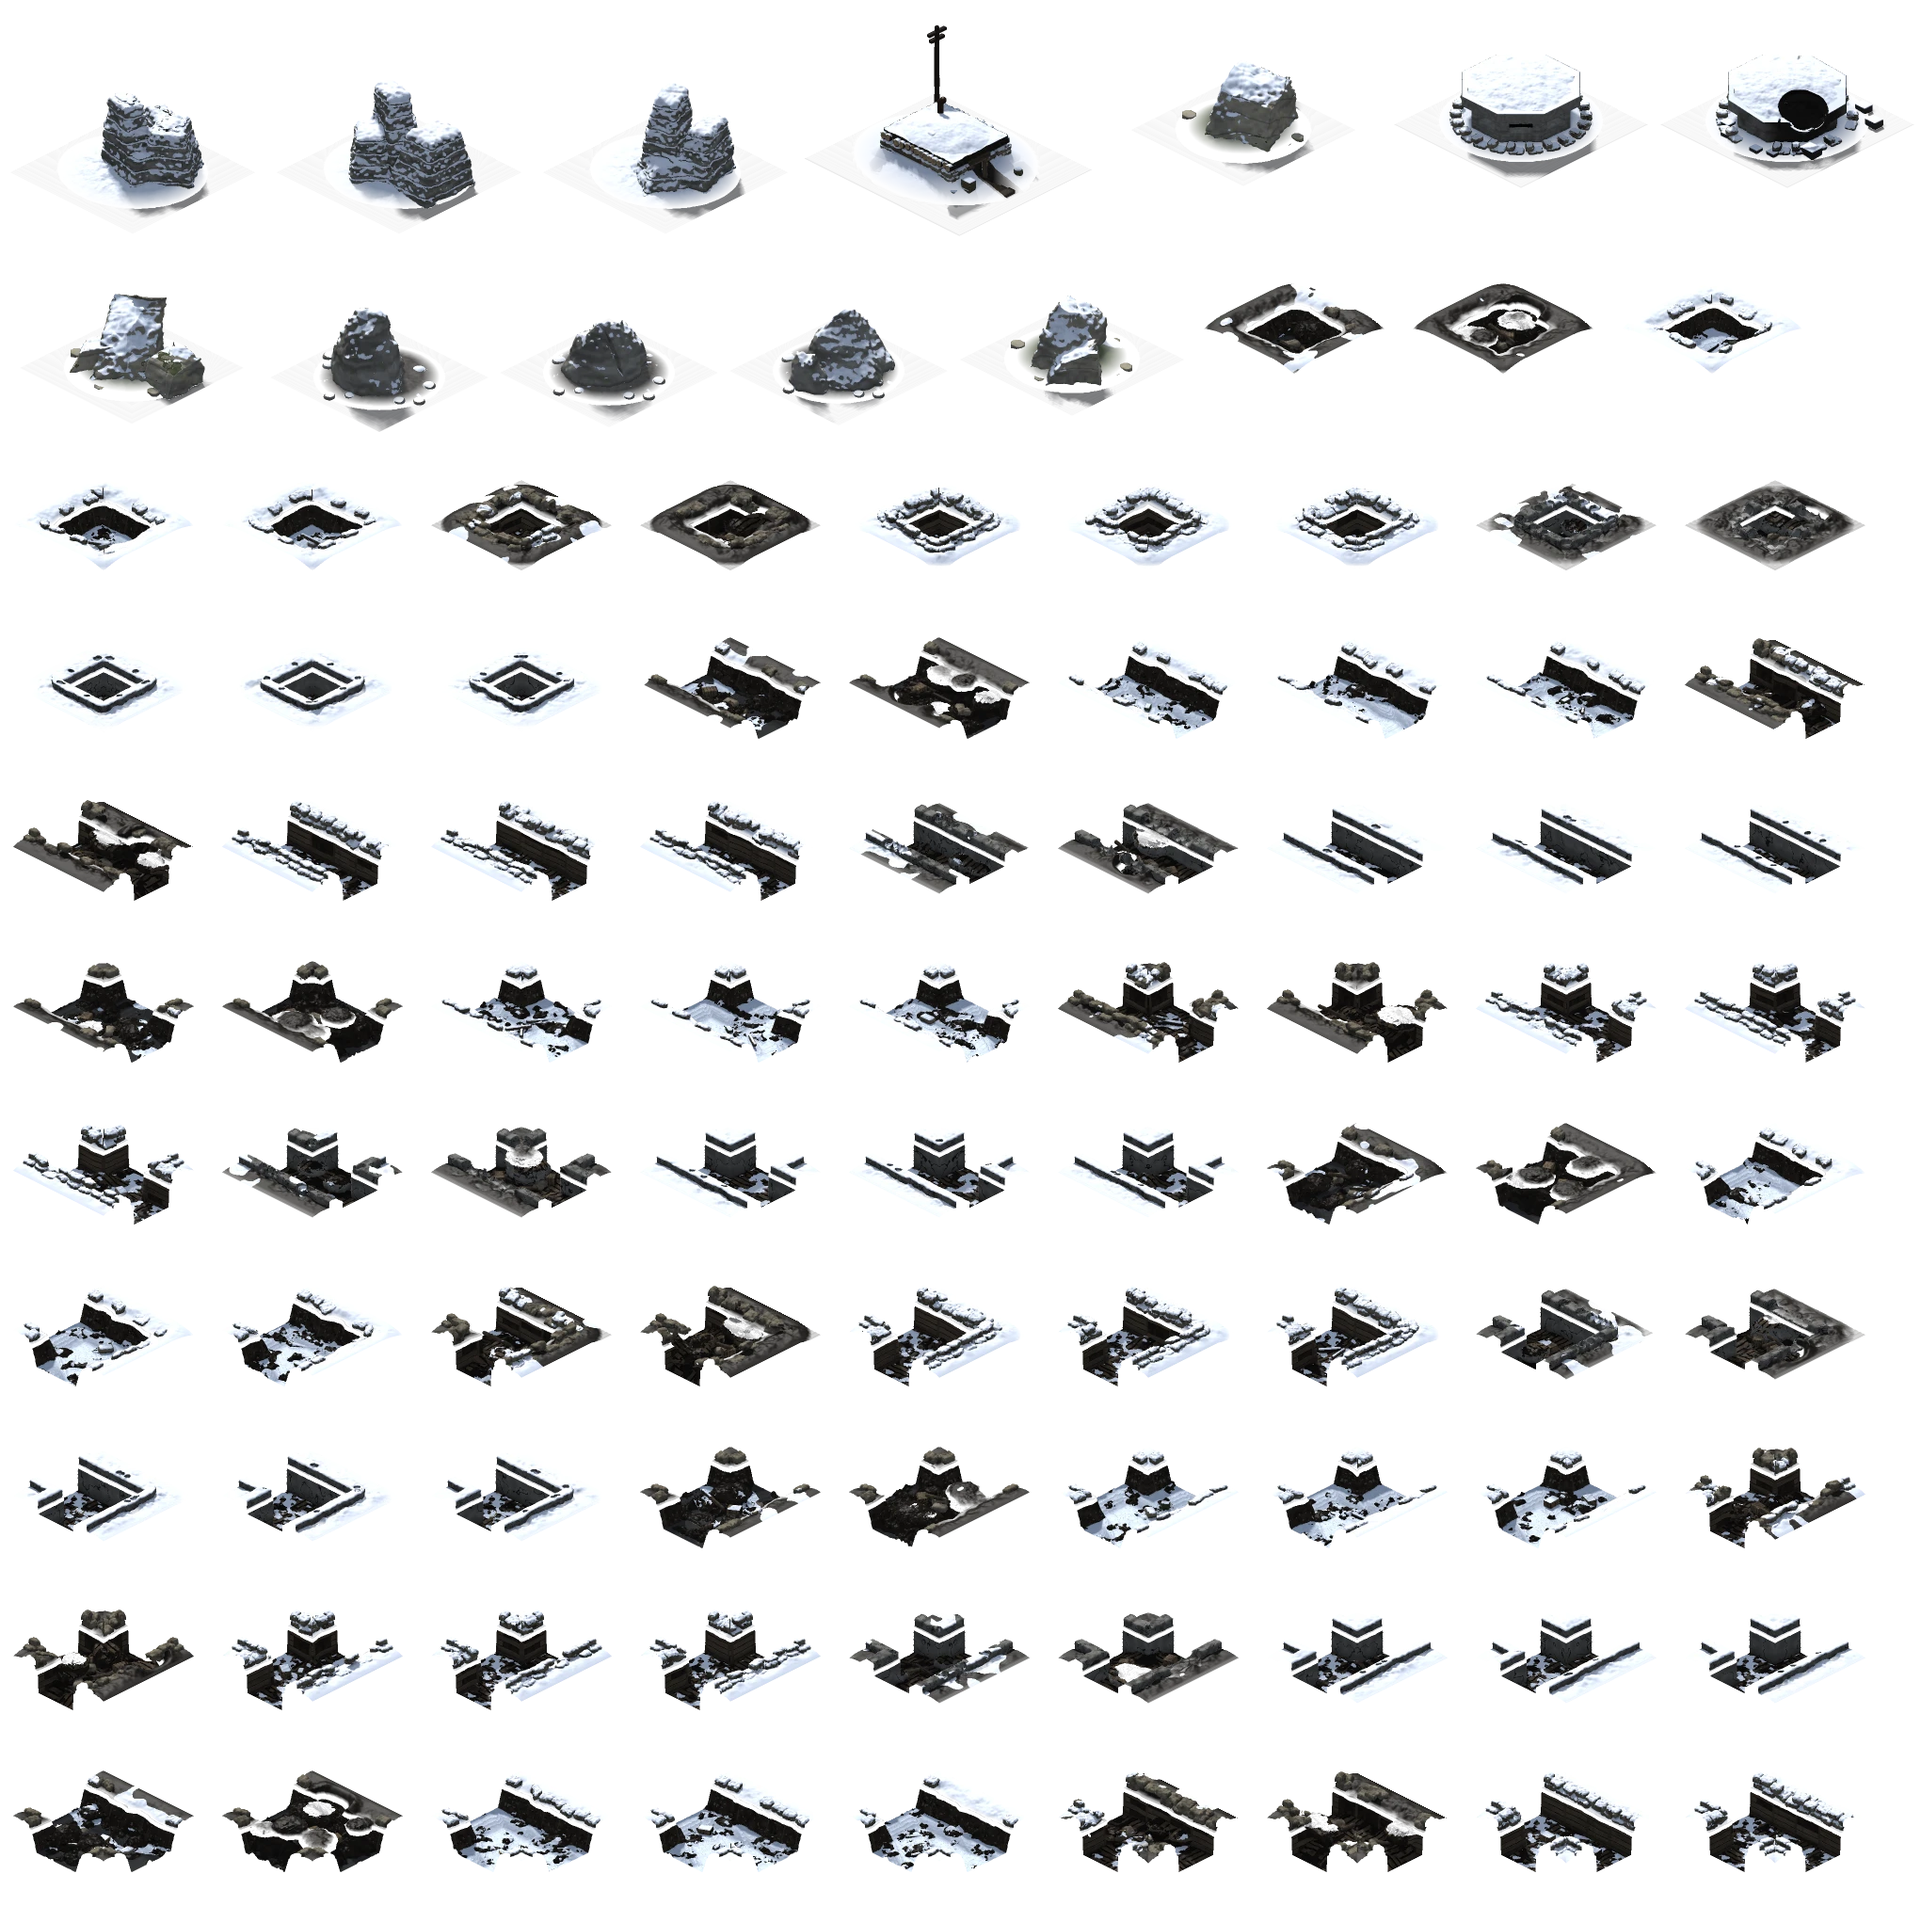
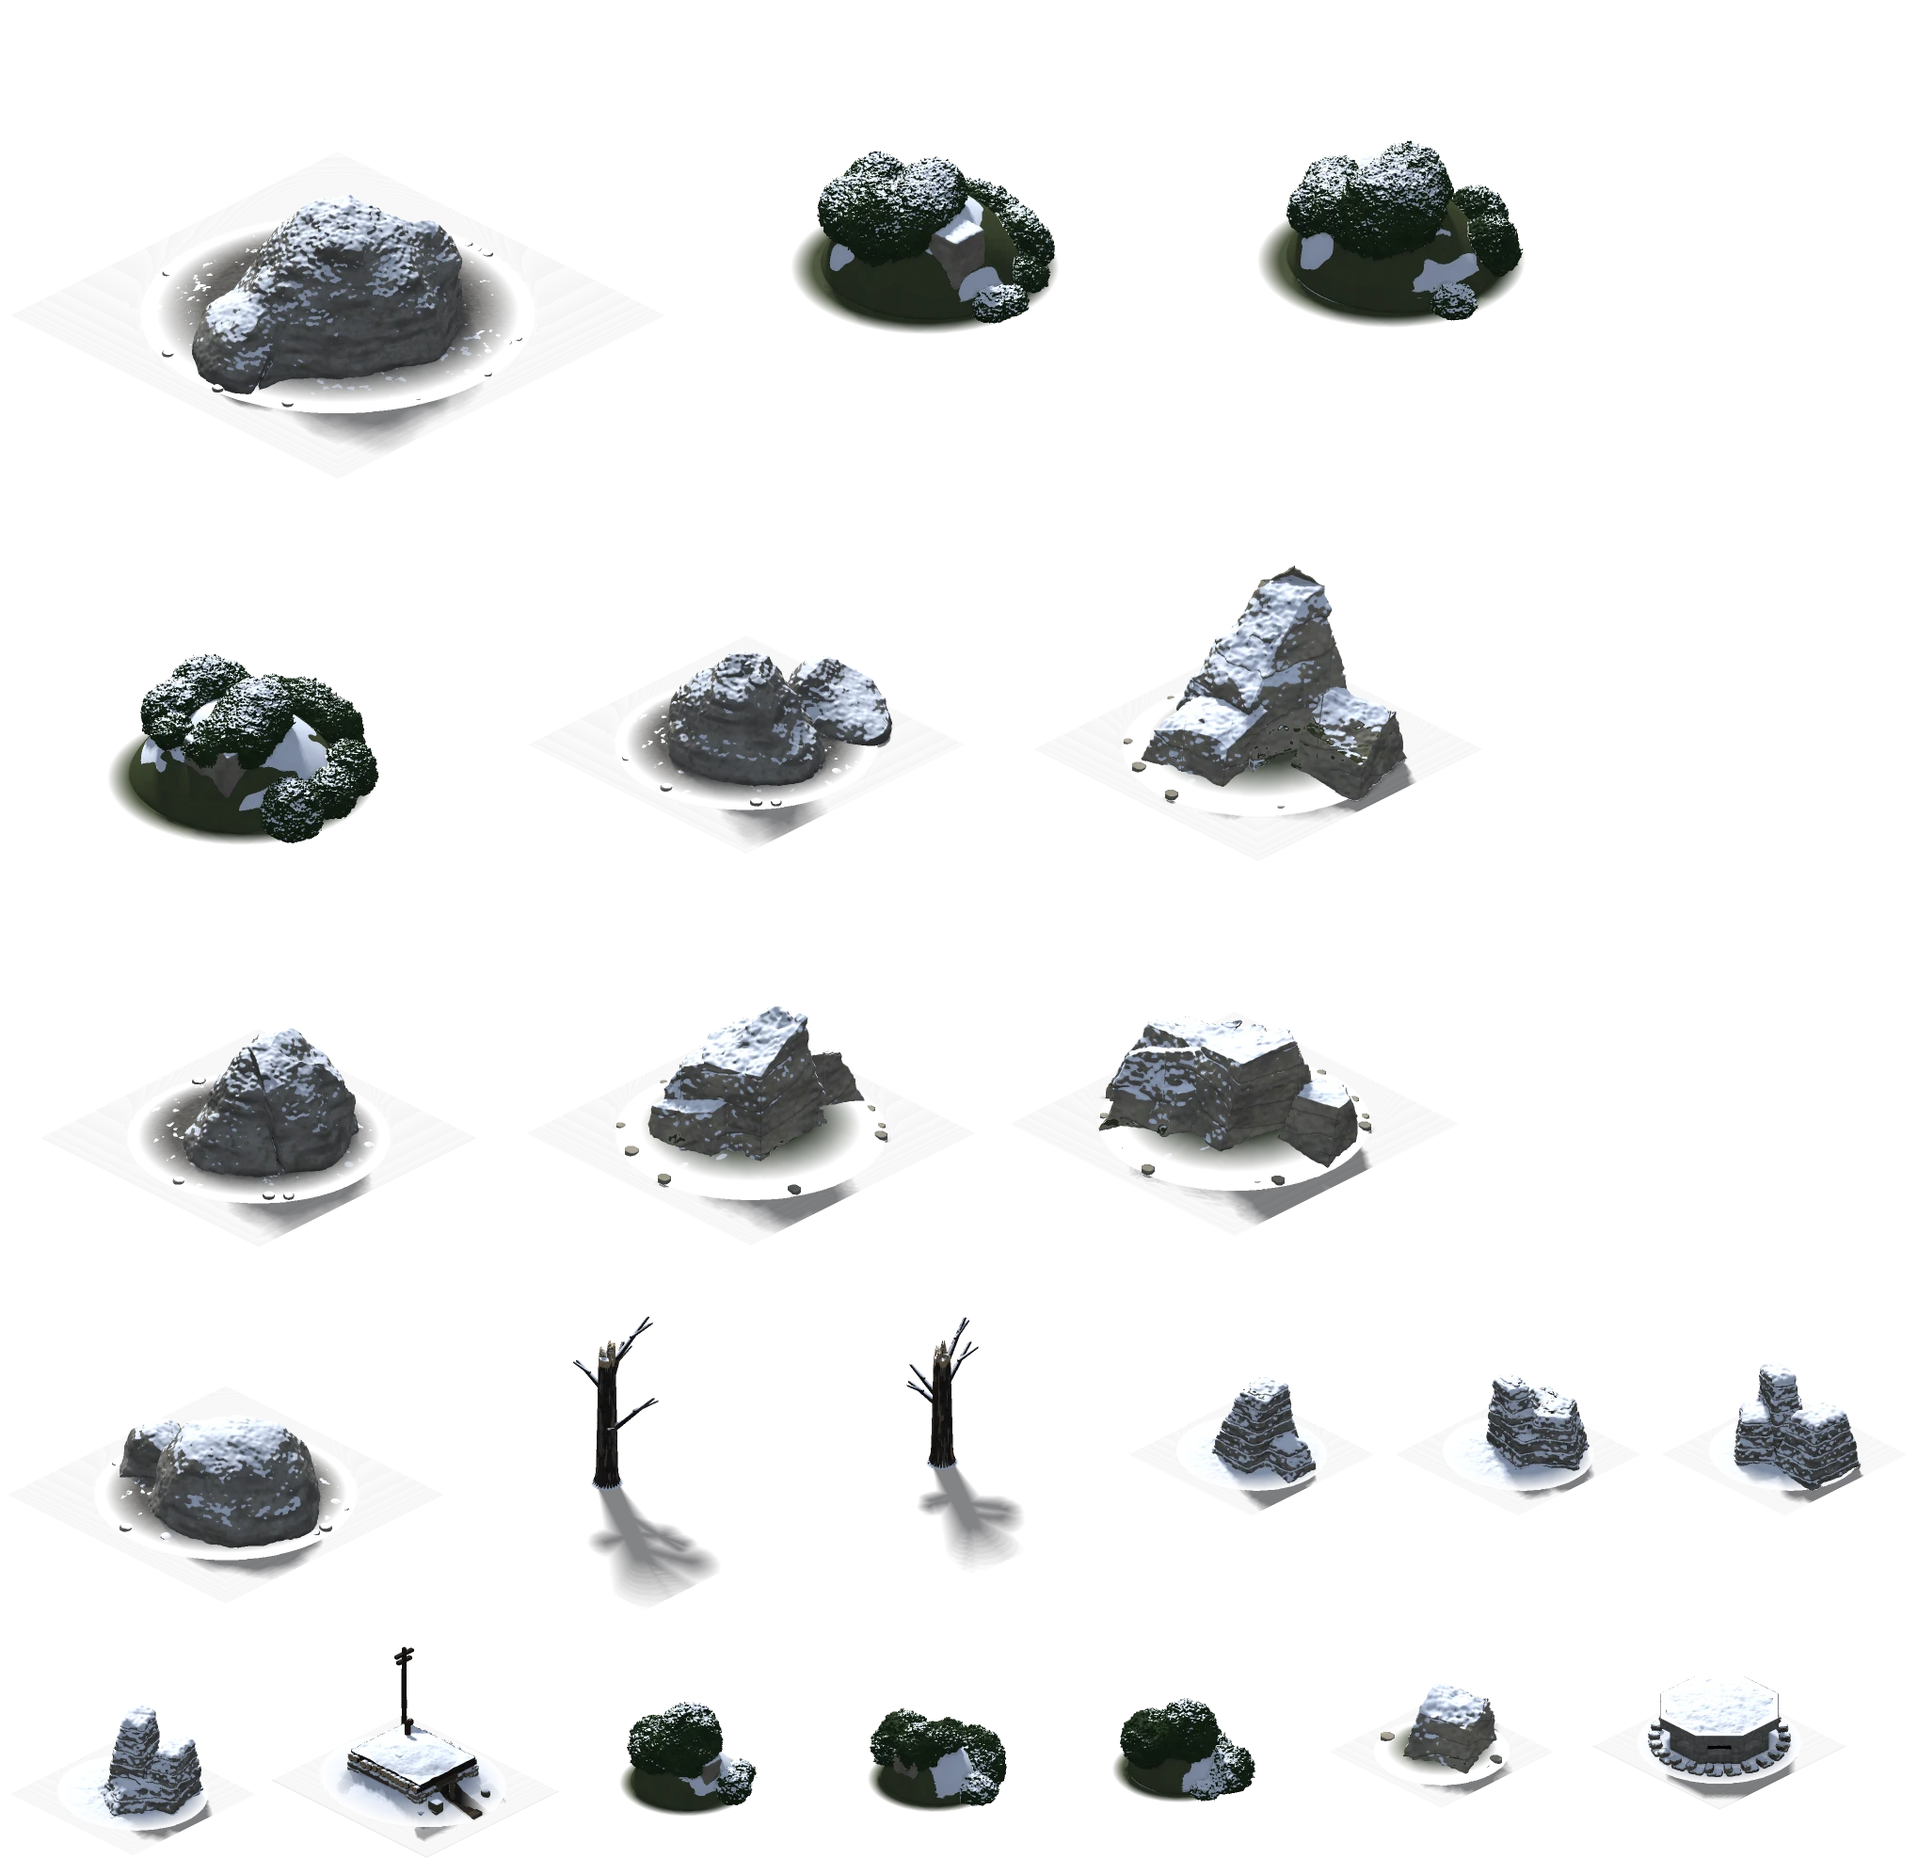
Level 2: impassable grassy knolls of dwarf pine, passable scree
Two new pre-rendered kinds of ground. Knolls: steep grassy hummocks thick with dwarf mountain pine, a rock
breaking through here and there (1, 2 and 3 tiles; three variants, bare and snowy) - impassable like rock;
some of the valley's ridges and boulder clusters and stretches of the wall's foot are knolls now. Scree:
loose stones and slabs lying on the open ground (four variants), in patches and at the rocks' feet -
passable, but men cross it at 82% speed. Saves keep both.

Claude-Session: https://claude.ai/code/session_01QRLYjet5i3xPK5hPmw42NL

diff --git a/src/render.js b/src/render.js
@@ -815,6 +815,12 @@ export class Renderer {
       const p = iso(t.x + 0.3 + h * 0.4, t.y + 0.3 + t.shade * 0.4);
       this.drawProp(g, `debris${Math.floor(h * 97) % 3}${snow}`, p.x, p.y);
     }
+    // scree: loose stones lying on the open ground
+    for (const t of map.tiles) {
+      if (t.ground !== 3 || t.off || t.trench || !this.inClip(t.x, t.y, 1)) continue;
+      const h = hash(t.x * 4.1, t.y * 2.7), p = iso(t.x + 0.5 + (h - 0.5) * 0.3, t.y + 0.5 + (t.shade - 0.5) * 0.3);
+      this.drawProp(g, `scree${Math.floor(h * 4) % 4}${snow}`, p.x, p.y, h > 0.5);
+    }
     // trench tiles by connectivity, back to front
     const trenches = map.tiles.filter((t) => t.trench && this.inClip(t.x, t.y, 2)).sort((a, b) => a.x + a.y - (b.x + b.y) || a.x - b.x);
     for (const t of trenches) {
@@ -1311,9 +1317,9 @@ export class Renderer {
     const n = map.tiles.reduce((c, t) => c + (t.rock ? 1 : 0), 0);
     if (this._rocks && this._rocks.map === map && this._rocks.n === n) return this._rocks.list;
     const W = map.w, used = new Uint8Array(W * map.h), list = [];
-    const free = (x, y) => x < W && y < map.h && map.tiles[y * W + x].rock && !map.tiles[y * W + x].hidden && !used[y * W + x];
-    const block = (x, y, z) => { for (let j = 0; j < z; j++) for (let i = 0; i < z; i++) if (!free(x + i, y + j)) return false; return true; };
-    const take = (x, y, z) => { for (let j = 0; j < z; j++) for (let i = 0; i < z; i++) used[(y + j) * W + x + i] = 1; list.push({ x, y, size: z, v: Math.floor(hash(x * 1.3, y * 2.1) * 3) }); };
+    const free = (x, y, k) => x < W && y < map.h && map.tiles[y * W + x].rock && !map.tiles[y * W + x].hidden && !used[y * W + x] && (k === undefined || !!map.tiles[y * W + x].knoll === k);
+    const block = (x, y, z) => { const k = !!map.tiles[y * W + x].knoll; for (let j = 0; j < z; j++) for (let i = 0; i < z; i++) if (!free(x + i, y + j, k)) return false; return true; };
+    const take = (x, y, z) => { for (let j = 0; j < z; j++) for (let i = 0; i < z; i++) used[(y + j) * W + x + i] = 1; list.push({ x, y, size: z, v: Math.floor(hash(x * 1.3, y * 2.1) * 3), knoll: !!map.tiles[y * W + x].knoll }); };
     // the big ones first, at scattered places, then the middling ones, then whatever is left
     for (const [z, p] of [[3, 0.9], [2, 0.95]]) for (let y = 0; y < map.h; y++) for (let x = 0; x < W; x++) if (hash(x * 0.7 + z, y * 1.9) < p && block(x, y, z)) take(x, y, z);
     for (let y = 0; y < map.h; y++) for (let x = 0; x < W; x++) if (free(x, y)) take(x, y, 1);
@@ -1325,8 +1331,8 @@ export class Renderer {
   drawRock(ctx, r) {
     const h = hash(r.x * 3.7, r.y * 1.9), c = iso(r.x + r.size / 2 + (h - 0.5) * 0.15, r.y + r.size / 2 + (hash(r.y, r.x) - 0.5) * 0.15);
     const snow = (this.S ?? 1) > 0.7 ? '_s' : '';
-    // jagged crags and rounded boulders mixed, as they fall in the mountains
-    const kind = hash(r.x * 2.9 + 1.7, r.y * 5.3) < 0.42 ? 'round' : 'boulder';
+    // jagged crags and rounded boulders mixed, as they fall in the mountains; or a knoll of dwarf pine
+    const kind = r.knoll ? 'knoll' : hash(r.x * 2.9 + 1.7, r.y * 5.3) < 0.42 ? 'round' : 'boulder';
     if (this.drawFrame(ctx, this.propGroup(), `${kind}${r.size}_${r.v}${snow}`, c.x, c.y, 1.22 + h * 0.2, h > 0.5)) return;
     if (this.drawFrame(ctx, this.propGroup(), `boulder${r.size}_${r.v}${snow}`, c.x, c.y, 1.22 + h * 0.2, h > 0.5)) return;
     if (this.drawFrame(ctx, this.propGroup(), `rock${r.v}${snow}`, c.x, c.y, (1.4 + h * 0.35) * r.size, h > 0.5)) return;

diff --git a/src/campaign.js b/src/campaign.js
@@ -181,25 +181,39 @@ function buildValley(state) {
   }
   const hashRnd = (x, y) => { const h = Math.sin(x * 127.1 + y * 311.7) * 43758.5453; return h - Math.floor(h); };
   // a spur: a ridge of rock from (u0, v0) to (u1, v1), ragged, thickness r
-  const spur = (u0, v0, u1, v1, r) => {
+  const spur = (u0, v0, u1, v1, r, knoll = false) => {
     for (const t of map.tiles) {
       if (t.off) continue;
       const [u, v] = uv(t), du = u1 - u0, dv = v1 - v0, L = du * du + dv * dv;
       const k = Math.max(0, Math.min(1, ((u - u0) * du + (v - v0) * dv) / L));
       const d = Math.hypot(u - (u0 + du * k), v - (v0 + dv * k));
-      if (d <= r + (hashRnd(t.x, t.y) - 0.5) * 1.2) rock(t);
+      if (d <= r + (hashRnd(t.x, t.y) - 0.5) * 1.2) { rock(t); if (t.rock && knoll) t.knoll = 1; }
     }
   };
   const SPURS = [
-    [-18, 6, -6, 9, 1.1], [-17, -1, -7, 1, 1.1], [-15, -8, -5, -6, 1], // before the first nest
-    [1, -1, 10, 1, 1.1], [2, 5, 9, 8, 1], [4, -7, 11, -9, 1], // between the first and the second
-    [17, -2, 24, 0, 1.1], [18, 4, 25, 7, 1], [17, -9, 23, -11, 1], [16, 10, 22, 12, 0.9], // between the second and the third
+    // (a sixth value marks a grassy knoll of dwarf pine rather than rock: as impassable)
+    [-18, 6, -6, 9, 1.1, true], [-17, -1, -7, 1, 1.1], [-15, -8, -5, -6, 1], // before the first nest
+    [1, -1, 10, 1, 1.1], [2, 5, 9, 8, 1, true], [4, -7, 11, -9, 1], // between the first and the second
+    [17, -2, 24, 0, 1.1, true], [18, 4, 25, 7, 1], [17, -9, 23, -11, 1], [16, 10, 22, 12, 0.9, true], // between the second and the third
   ];
   for (const sp of SPURS) spur(...sp);
   for (let n = 0; n < 8; n++) { // lone boulders and small clusters in the open
     const u = -18 + rnd() * 48, v = -11 + rnd() * 22;
     if (POINTS.some(([pu, pv]) => Math.abs(u - pu) < 6 && Math.abs(v - pv) < 7)) continue;
-    spur(u, v, u + (rnd() - 0.5) * 2, v + (rnd() - 0.5) * 2, 0.4 + rnd() * 0.5);
+    spur(u, v, u + (rnd() - 0.5) * 2, v + (rnd() - 0.5) * 2, 0.4 + rnd() * 0.5, rnd() < 0.5);
+  }
+  // the valley wall's foot grown over with dwarf pine in places
+  for (const t of map.tiles) {
+    if (!t.rock || t.knoll) continue;
+    const [u, v] = uv(t);
+    if (v > -15 && v < 15 && Math.abs(v) >= 11 && Math.sin(u * 0.23 + (v > 0 ? 2.1 : 0.4)) > 0.45) t.knoll = 1;
+  }
+  // scree: loose stones lying on the open ground (passable, but slow), in patches and at the rocks' feet
+  for (const t of map.tiles) {
+    if (t.off || t.rock || t.trench || t.wire || t.ground === 2) continue;
+    const [u, v] = uv(t), near = [[1, 0], [-1, 0], [0, 1], [0, -1]].some(([dx, dy]) => { const n = tileAt(map, t.x + dx + 0.5, t.y + dy + 0.5); return n && n.rock && !n.knoll; });
+    const f = Math.sin(u * 0.41 + 1.7) * Math.cos(v * 0.53 - 0.6) + 0.5 * Math.sin((u - v) * 0.31);
+    if ((near && rnd() < 0.35) || f > 1.05 || rnd() < 0.025) { t.ground = 3; t.mud = 0; }
   }
   // great crags, three times the size of any in the valley, along the back of its rock wall like the foot of
   // the mountain: on the map's own (impassable) rock, each standing over the rock tiles beneath it

diff --git a/index.html b/index.html
@@ -12,16 +12,16 @@
       "./src/ai.js": "./src/ai.js?v=3dae52f0",
       "./src/atmosphere.js": "./src/atmosphere.js?v=1e92f7e8",
       "./src/audio.js": "./src/audio.js?v=bbae5c50",
-      "./src/campaign.js": "./src/campaign.js?v=dab6dfed",
+      "./src/campaign.js": "./src/campaign.js?v=28064dd5",
       "./src/config.js": "./src/config.js?v=ee084504",
-      "./src/game.js": "./src/game.js?v=fa26c686",
+      "./src/game.js": "./src/game.js?v=167e2aef",
       "./src/main.js": "./src/main.js?v=3ddce736",
       "./src/map.js": "./src/map.js?v=aaba3858",
       "./src/model-view.js": "./src/model-view.js?v=214a5b12",
       "./src/path.js": "./src/path.js?v=23c490f7",
       "./src/relief.js": "./src/relief.js?v=2441f819",
-      "./src/render.js": "./src/render.js?v=81d5a85a",
-      "./src/save.js": "./src/save.js?v=2a61a020",
+      "./src/render.js": "./src/render.js?v=c037deb1",
+      "./src/save.js": "./src/save.js?v=8751dbfe",
       "./src/tutorial.js": "./src/tutorial.js?v=134dce8b",
       "./src/ui.js": "./src/ui.js?v=dc2e3fda",
       "./src/voice.js": "./src/voice.js?v=a581782b"

diff --git a/src/save.js b/src/save.js
@@ -6,7 +6,7 @@ import { setWestTeam } from './map.js';
 import { setNextId } from './game.js';
 
 export const SAVE_VERSION = 1;
-const TILE_KEYS = ['mud', 'shade', 'crater', 'trench', 'owner', 'origOwner', 'wire', 'origWire', 'build', 'decor', 'dmg', 'decorHp', 'splinters', 'rock', 'block', 'bridge', 'bridgeHp', 'ground', 'hidden'];
+const TILE_KEYS = ['mud', 'shade', 'crater', 'trench', 'owner', 'origOwner', 'wire', 'origWire', 'build', 'decor', 'dmg', 'decorHp', 'splinters', 'rock', 'block', 'bridge', 'bridgeHp', 'ground', 'hidden', 'knoll'];
 
 /** The battle as a JSON string. */
 export function serialize(state) {

diff --git a/src/game.js b/src/game.js
@@ -472,6 +472,7 @@ function terrainFactor(tile) {
   if (tile.wire > 0) f *= tile.wire > 50 ? WIRE_SLOW : WIRE_SLOW * 2;
   if (tile.crater) f *= 0.85;
   if (tile.mud) f *= 0.88;
+  if (tile.ground === 3) f *= 0.82; // scree: loose stones underfoot
   if (tile.trench) f *= 0.8;
   return f;
 }
